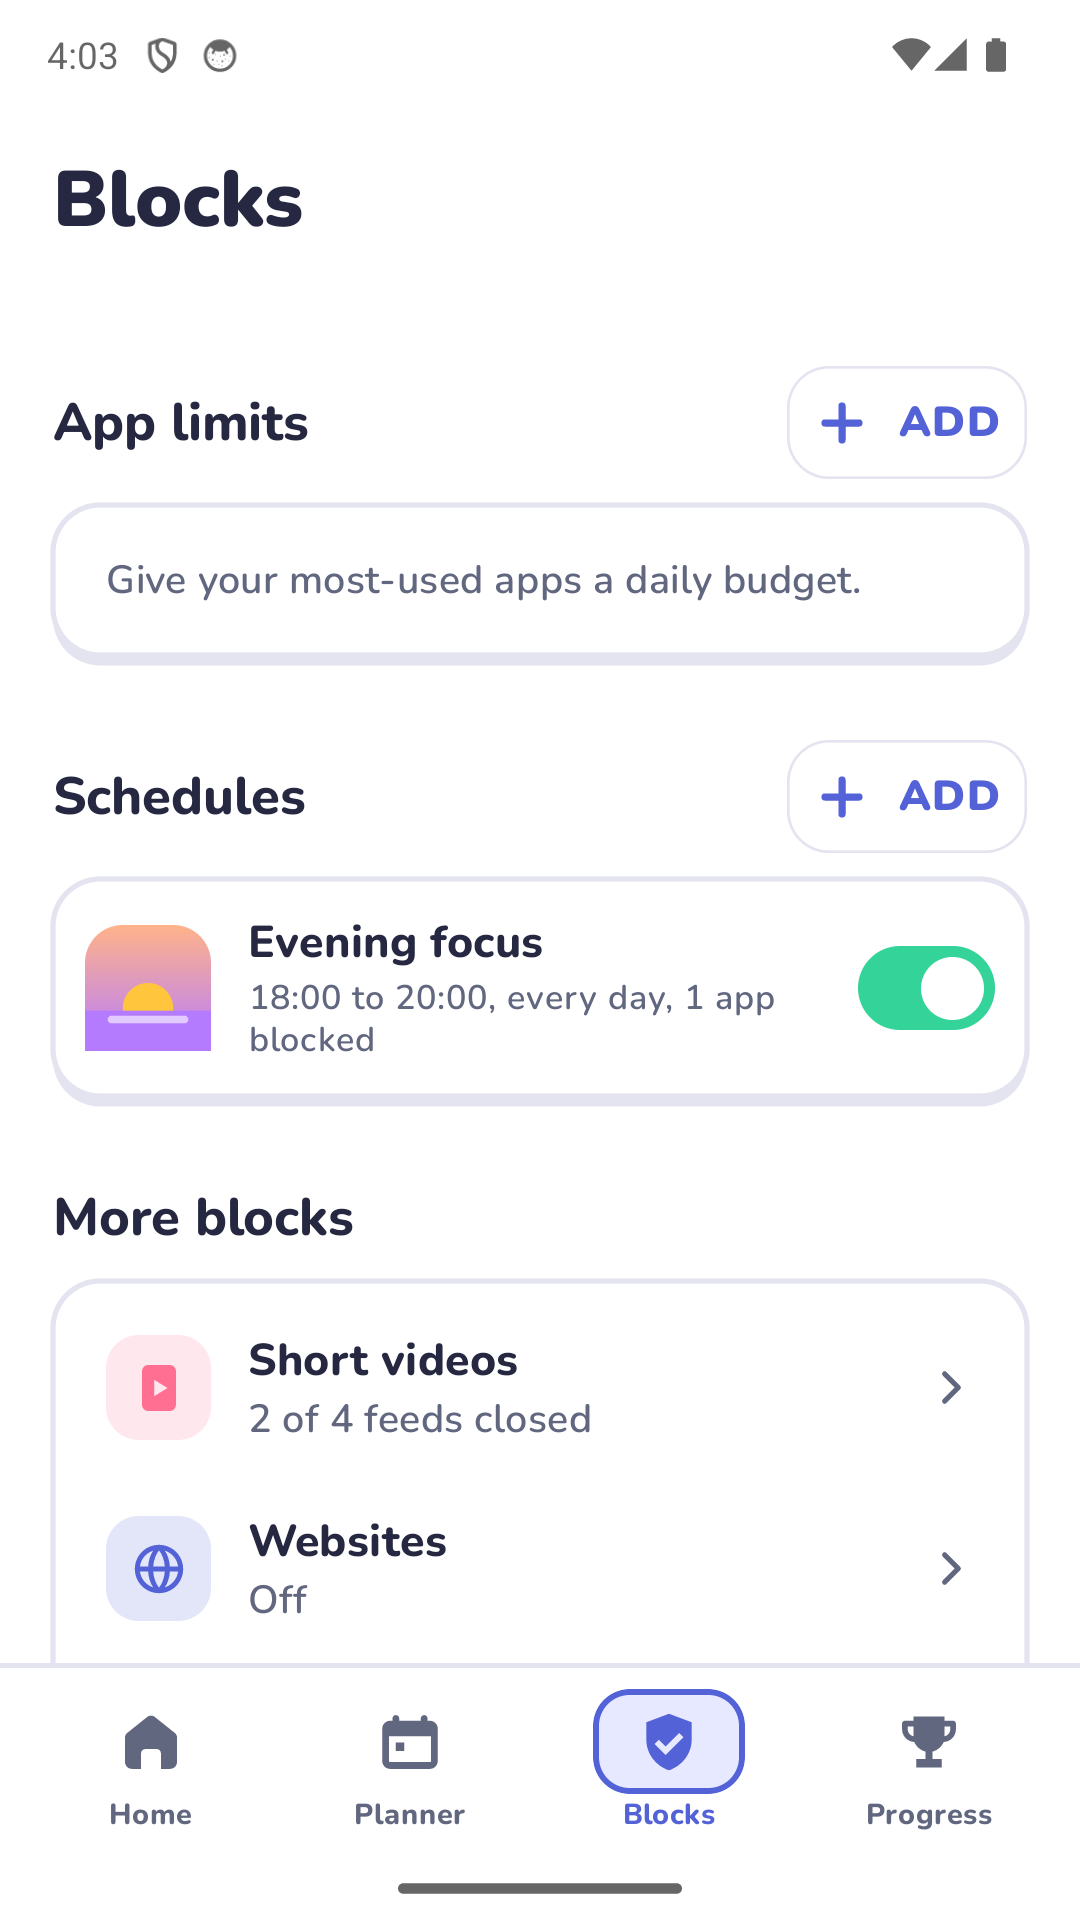
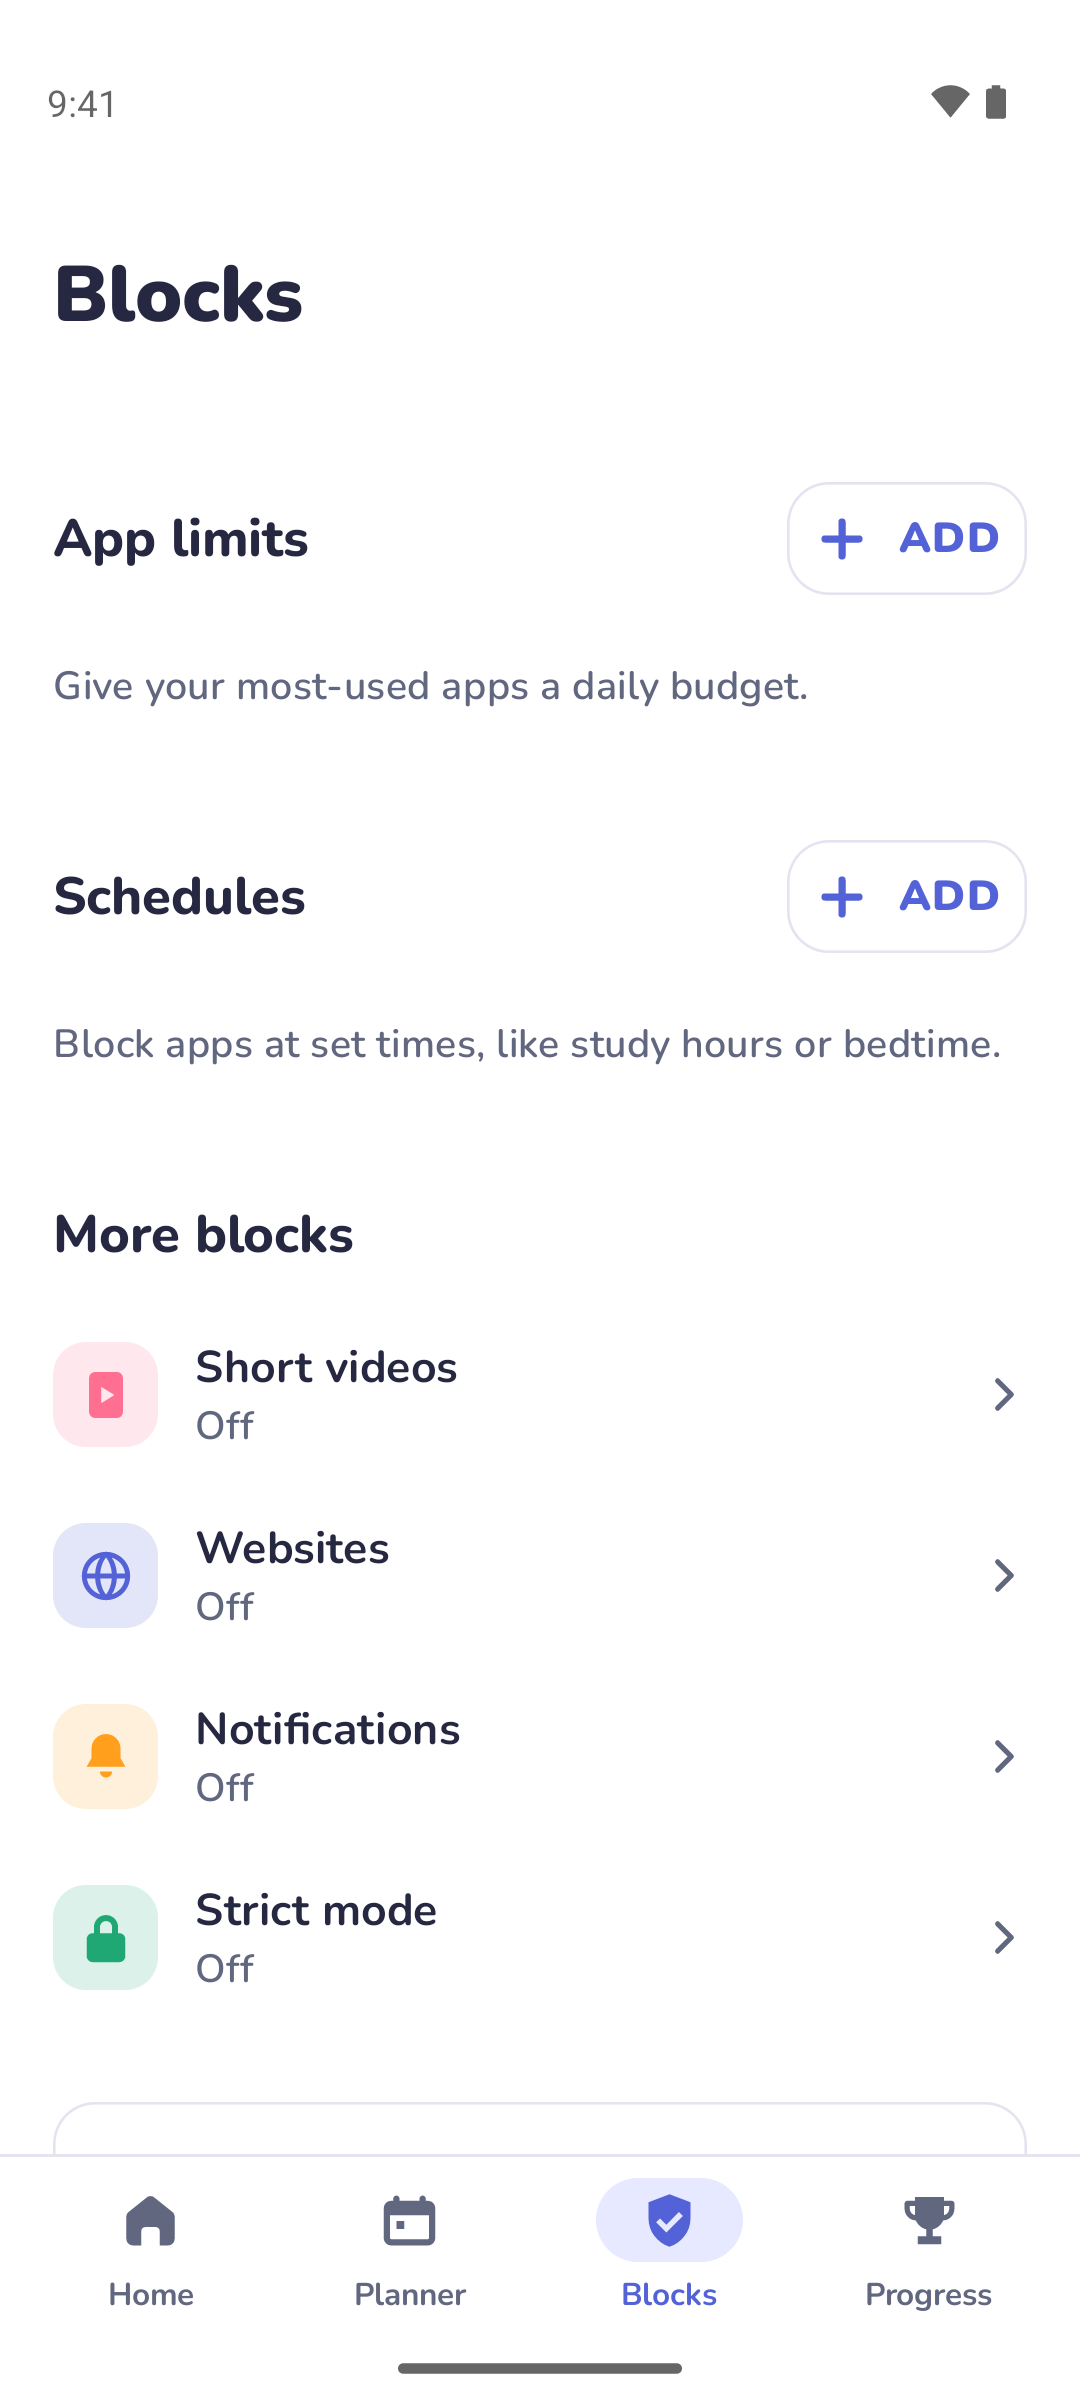
docs(readme): replace screenshots that showed the old name

diff --git a/README.md b/README.md
@@ -9,7 +9,7 @@ Free and open source. No account, ads, or analytics. Focus works offline.
 
 <p>
   <img src="docs/images/home.png" alt="Home with Ronumi, a daily focus goal, and quests" width="30%">
-  <img src="docs/images/focus.png" alt="A focus timer against the animated Dawn scene" width="30%">
+  <img src="docs/images/focus.png" alt="A focus timer in the animated Firefly forest scene" width="30%">
   <img src="docs/images/wardrobe-dark.png" alt="Ronumi wearing a beanie and overalls in the dark-mode wardrobe" width="30%">
 </p>
 
@@ -48,7 +48,7 @@ Ronumi can also hold selected app notifications in an inbox. Read them later or 
 Separate settings control focus updates, planned reminders, and inbox summaries.
 
 <p>
-  <img src="docs/images/blocks.png" alt="App limits, an evening schedule, and controls for short videos and websites" width="30%">
+  <img src="docs/images/blocks.png" alt="App limits, schedules, and controls for short videos, websites, and notifications" width="30%">
   <img src="docs/images/progress.png" alt="Progress with a level, active streak, and focus totals" width="30%">
 </p>
 
